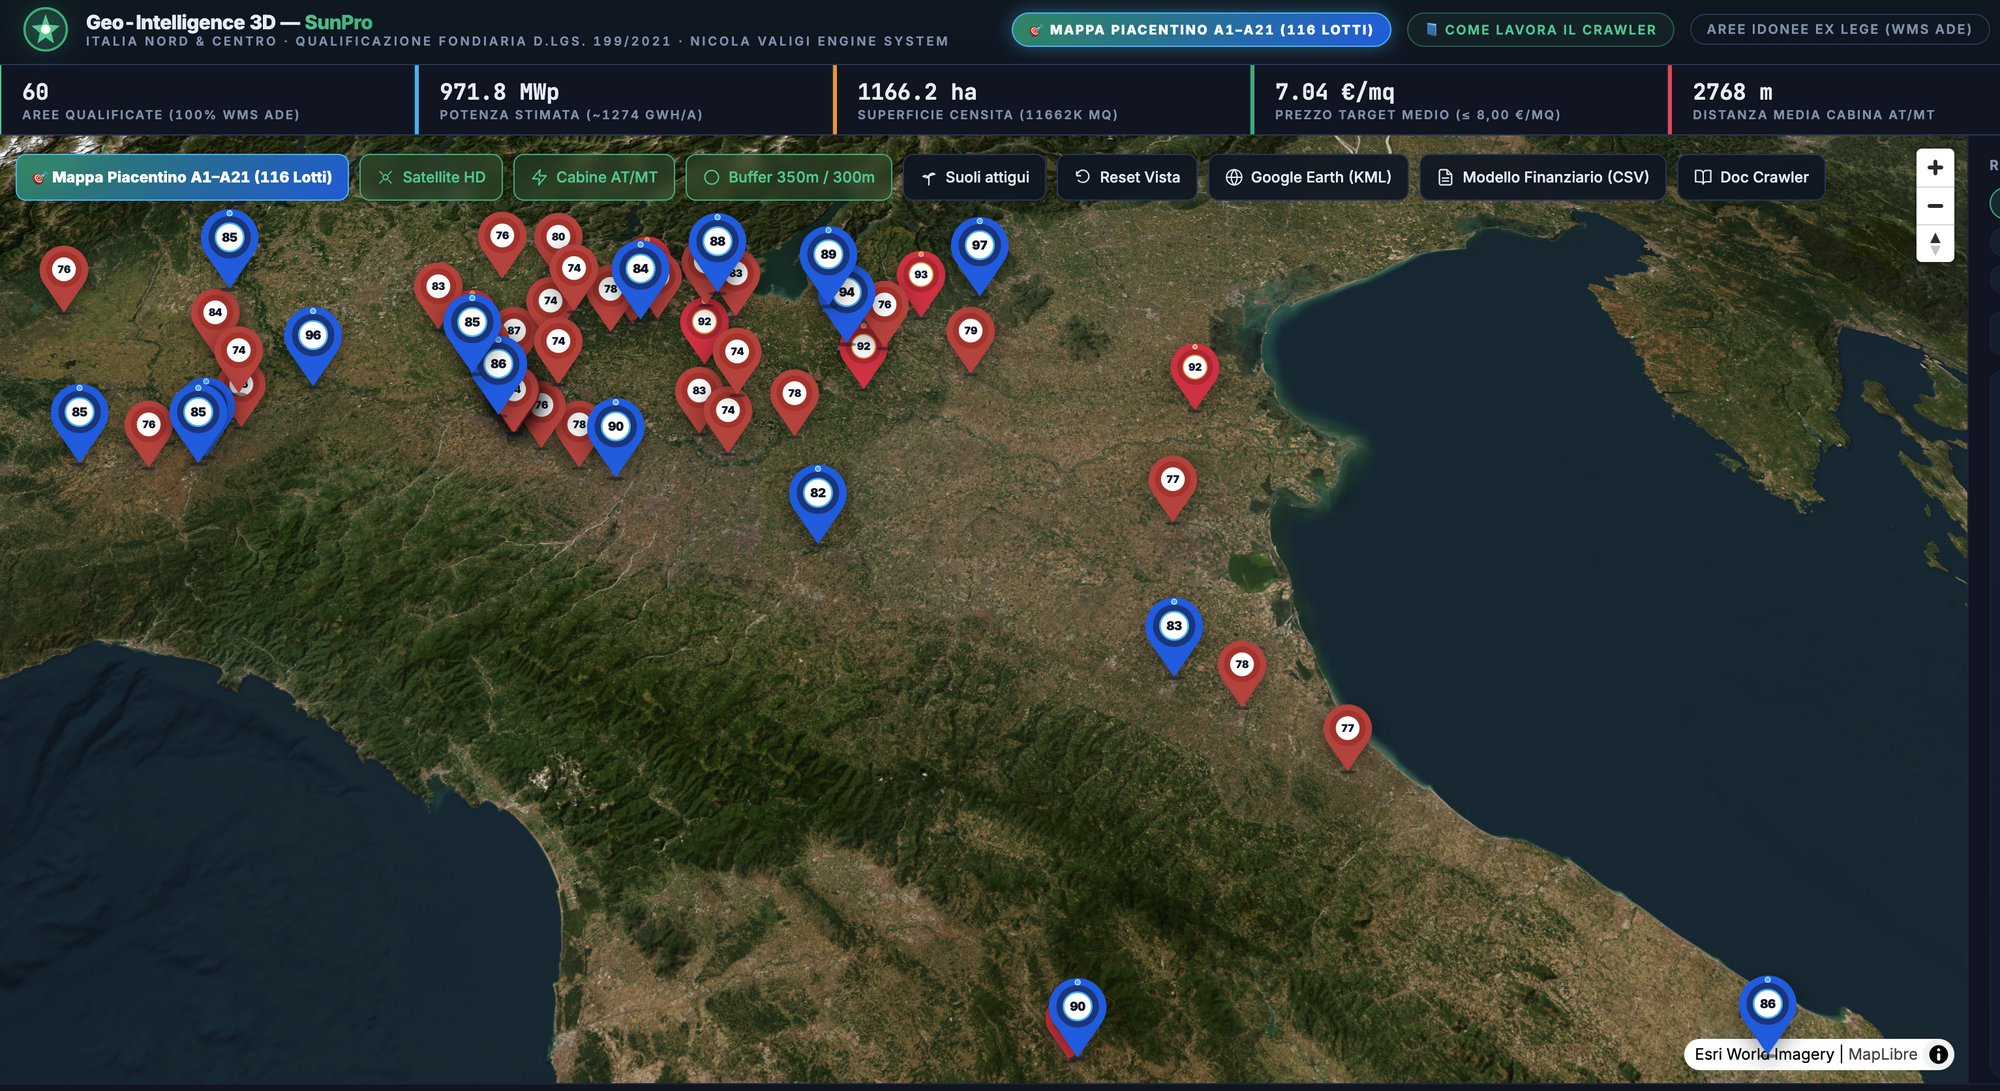
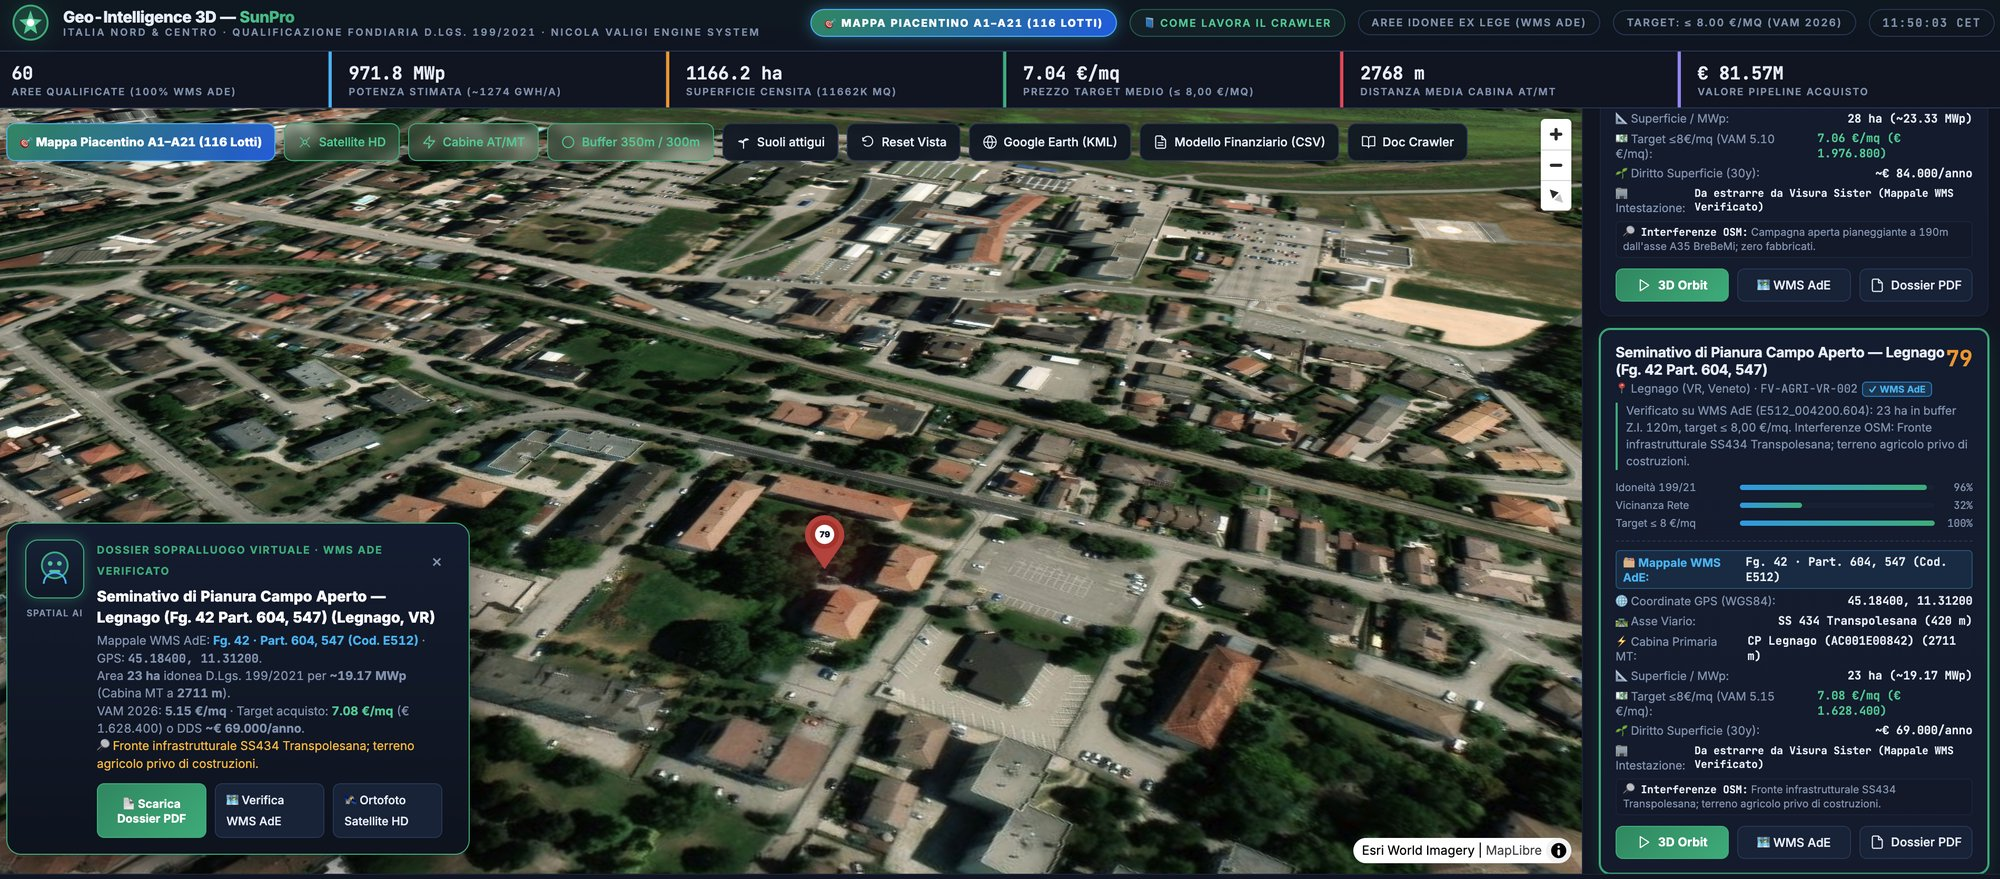
Aggiorna screenshot e anteprima SunPro Geo-Intelligence 3D (JPG e WebP)

diff --git a/en/skills.html b/en/skills.html
@@ -410,7 +410,7 @@
       <a class="anteprima-link" href="../img/preview-sunpro-geo-intelligence.jpg" target="_blank" rel="noopener noreferrer" aria-label="Open full resolution Geo-Intelligence screenshot">
         <picture>
           <source srcset="../img/preview-sunpro-geo-intelligence.webp" type="image/webp">
-          <img src="../img/preview-sunpro-geo-intelligence.jpg" alt="3D Geo-Intelligence platform for land suitability and renewable site screening" width="2000" height="1091" loading="lazy" decoding="async">
+          <img src="../img/preview-sunpro-geo-intelligence.jpg" alt="3D Geo-Intelligence platform for land suitability and renewable site screening" width="2000" height="879" loading="lazy" decoding="async">
         </picture>
       </a>
       <figcaption>

diff --git a/competenze.html b/competenze.html
@@ -410,7 +410,7 @@
       <a class="anteprima-link" href="img/preview-sunpro-geo-intelligence.jpg" target="_blank" rel="noopener noreferrer" aria-label="Apri screenshot Geo-Intelligence a piena risoluzione">
         <picture>
           <source srcset="img/preview-sunpro-geo-intelligence.webp" type="image/webp">
-          <img src="img/preview-sunpro-geo-intelligence.jpg" alt="Piattaforma Geo-Intelligence 3D per qualificazione fondiaria e aree idonee" width="2000" height="1091" loading="lazy" decoding="async">
+          <img src="img/preview-sunpro-geo-intelligence.jpg" alt="Piattaforma Geo-Intelligence 3D per qualificazione fondiaria e aree idonee" width="2000" height="879" loading="lazy" decoding="async">
         </picture>
       </a>
       <figcaption>

diff --git a/en/index.html b/en/index.html
@@ -935,7 +935,7 @@
         <a href="../img/preview-sunpro-geo-intelligence.jpg" target="_blank" rel="noopener noreferrer" aria-label="Open full resolution Land Sourcing screenshot">
           <picture>
             <source srcset="../img/preview-sunpro-geo-intelligence.webp" type="image/webp">
-            <img src="../img/preview-sunpro-geo-intelligence.jpg" alt="3D platform for renewable land sourcing and suitability scoring" width="2000" height="1091" loading="lazy" decoding="async">
+            <img src="../img/preview-sunpro-geo-intelligence.jpg" alt="3D platform for renewable land sourcing and suitability scoring" width="2000" height="879" loading="lazy" decoding="async">
           </picture>
         </a>
       </div>

diff --git a/index.html b/index.html
@@ -935,7 +935,7 @@
         <a href="img/preview-sunpro-geo-intelligence.jpg" target="_blank" rel="noopener noreferrer" aria-label="Apri preview Sourcing Fondiario a piena risoluzione">
           <picture>
             <source srcset="img/preview-sunpro-geo-intelligence.webp" type="image/webp">
-            <img src="img/preview-sunpro-geo-intelligence.jpg" alt="Piattaforma 3D per qualificazione fondiaria ed aree idonee" width="2000" height="1091" loading="lazy" decoding="async">
+            <img src="img/preview-sunpro-geo-intelligence.jpg" alt="Piattaforma 3D per qualificazione fondiaria ed aree idonee" width="2000" height="879" loading="lazy" decoding="async">
           </picture>
         </a>
       </div>
